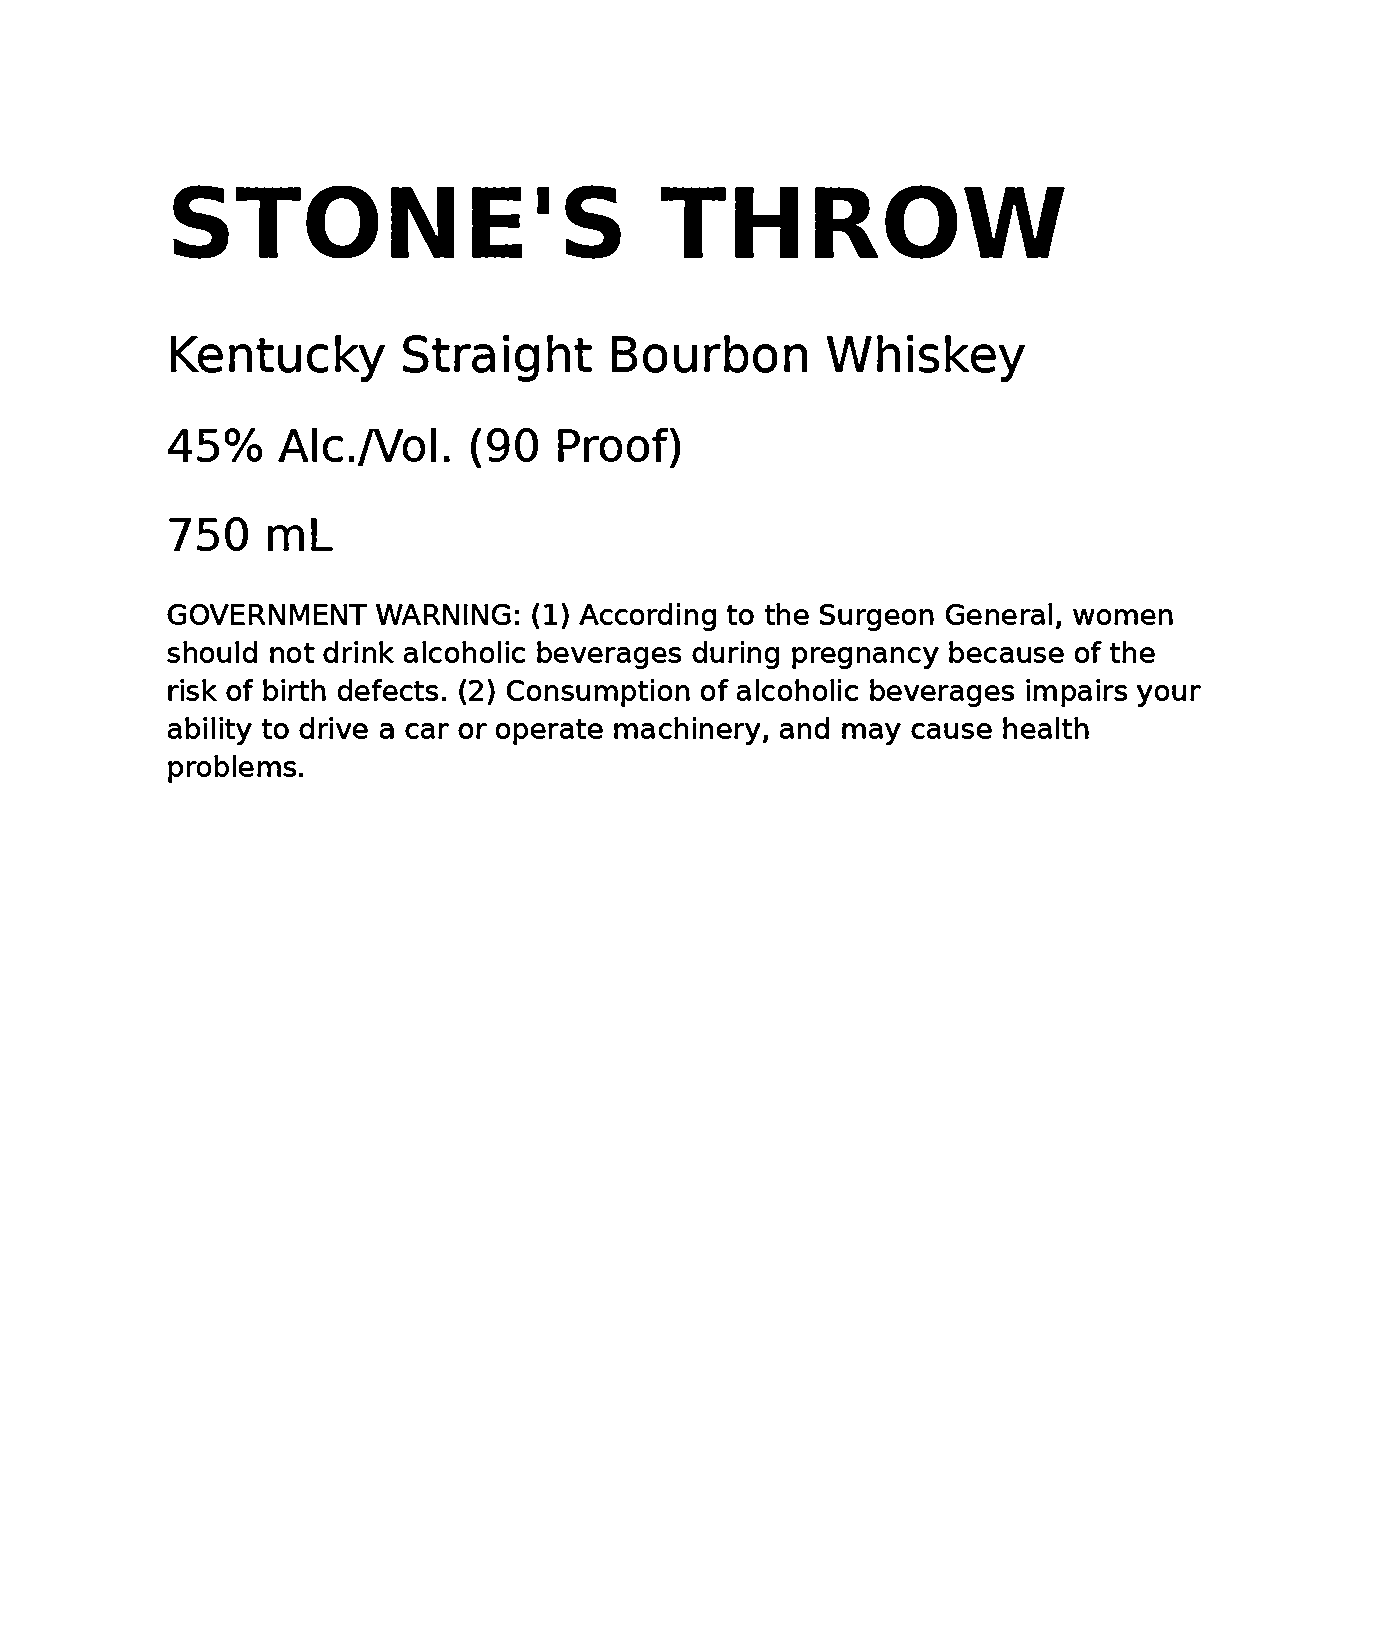
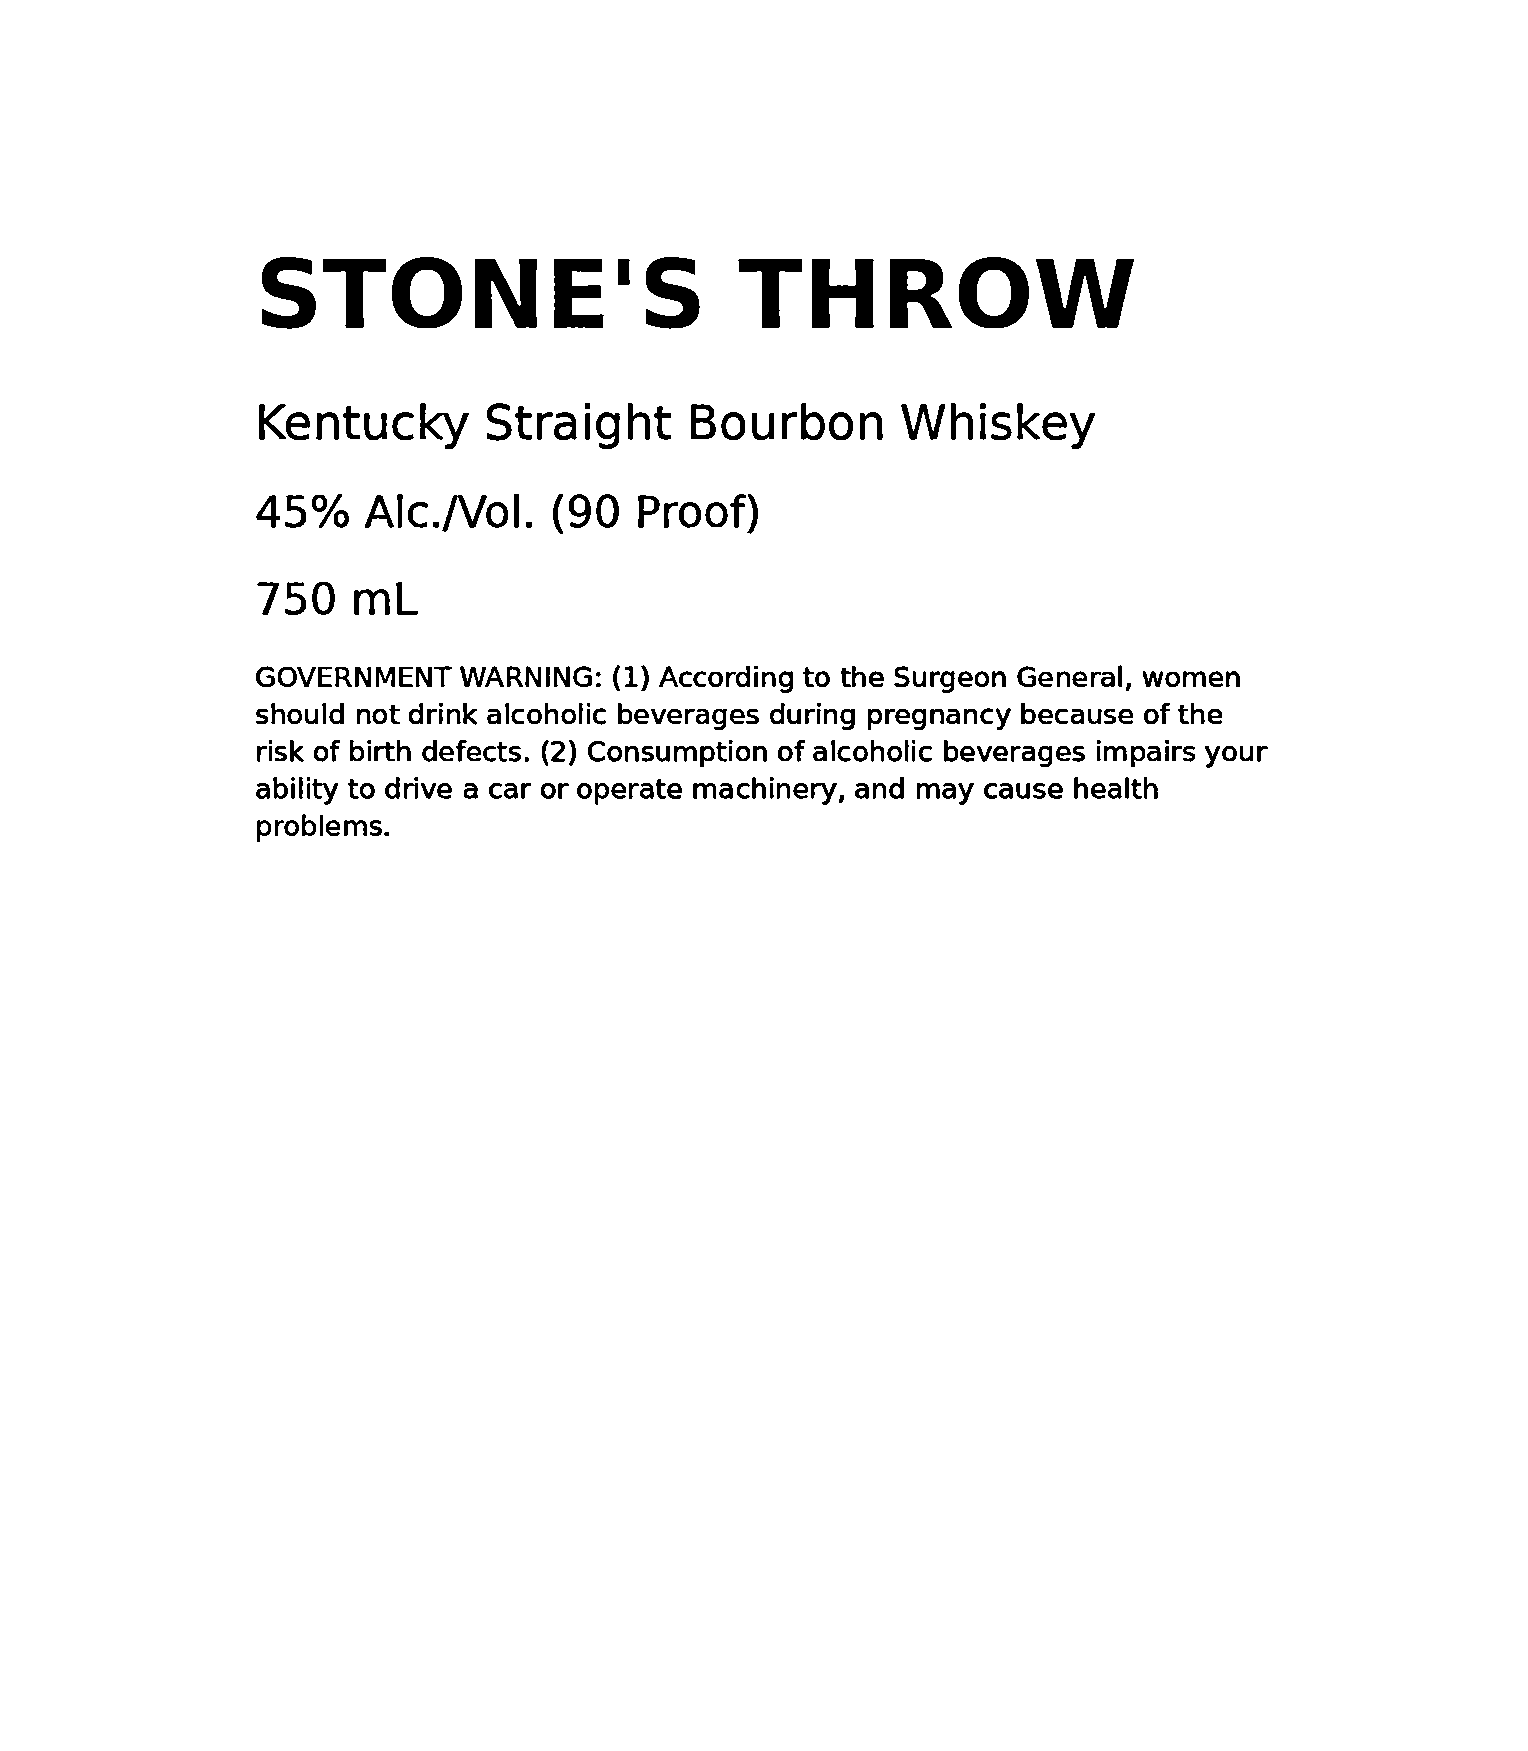
Fix glare handling: even out instead of inpainting
Inpainting blown-out pixels left a hard edge that thresholding turned
into black outlines through the text, making the heavy pass worse than
the basic one on glare. Lighting flattening alone handles the hotspot.
Also grow the canvas in the rotation test helper so no text is clipped,
add regression tests, and regenerate the preview images.

Changed region(s): [[0.1224, 0.0936, 0.8565, 0.4991]]

diff --git a/backend/tests/test_preprocess.py b/backend/tests/test_preprocess.py
@@ -67,6 +67,12 @@ def test_estimate_skew_on_blank_image_is_zero() -> None:
     assert preprocess.estimate_skew(np.full((500, 500), 255, np.uint8)) == 0.0
 
 
+def test_test_helper_rotation_keeps_all_text_on_canvas() -> None:
+    tilted = preprocess.to_grayscale(rotated(CLEAN, 10))
+    border = np.concatenate([tilted[0], tilted[-1], tilted[:, 0], tilted[:, -1]])
+    assert border.min() == 255
+
+
 def test_rotate_grows_canvas_to_keep_corners() -> None:
     out = preprocess.rotate(CLEAN_GRAY, 10)
     assert out.shape[0] > CLEAN_GRAY.shape[0] and out.shape[1] > CLEAN_GRAY.shape[1]
@@ -75,14 +81,12 @@ def test_rotate_grows_canvas_to_keep_corners() -> None:
 # glare
 
 
-def test_glare_mask_ignores_a_plain_white_label() -> None:
-    assert preprocess.glare_mask(CLEAN_GRAY) is None
+def test_has_glare_ignores_a_plain_white_label() -> None:
+    assert not preprocess.has_glare(CLEAN_GRAY)
 
 
-def test_glare_mask_finds_a_hotspot() -> None:
-    mask = preprocess.glare_mask(preprocess.to_grayscale(with_glare(CLEAN)))
-    assert mask is not None
-    assert 0 < mask.mean() < 0.25
+def test_has_glare_finds_a_hotspot() -> None:
+    assert preprocess.has_glare(preprocess.to_grayscale(with_glare(CLEAN)))
 
 
 def test_flatten_illumination_evens_out_a_gradient() -> None:
@@ -116,9 +120,23 @@ def test_heavy_straightens_a_rotated_label() -> None:
 def test_heavy_leaves_a_straight_label_unrotated() -> None:
     result = preprocess.heavy(preprocess.basic(CLEAN, 1600).image)
     assert not any(step.startswith("straightened") for step in result.steps)
-    assert "glare reduced" not in result.steps
+    assert result.steps == ["lighting evened out", "converted to black and white"]
 
 
-def test_heavy_reduces_glare() -> None:
+def test_heavy_reports_glare() -> None:
     result = preprocess.heavy(preprocess.basic(with_glare(CLEAN), 1600).image)
-    assert "glare reduced" in result.steps
+    assert result.steps[0] == "glare evened out"
+
+
+def test_heavy_leaves_no_dark_outline_around_glare() -> None:
+    """Regression: inpainting the hotspot used to leave a black ring through the text.
+
+    Counts pixels that are black after processing the glare photo but white after processing
+    the clean label. The old code produced 0.61% such pixels, the current code 0.04%.
+    """
+
+    def heavy(image: np.ndarray) -> np.ndarray:
+        return preprocess.heavy(preprocess.basic(image, 1600).image).image
+
+    spurious_ink = (heavy(with_glare(CLEAN)) == 0) & (heavy(CLEAN) == 255)
+    assert spurious_ink.mean() < 0.002

diff --git a/backend/app/ocr/preprocess.py b/backend/app/ocr/preprocess.py
@@ -1,4 +1,4 @@
-"""OpenCV preprocessing pipeline (resize cap, grayscale, CLAHE, deskew, glare).
+"""OpenCV preprocessing pipeline (resize cap, grayscale, CLAHE, lighting and glare, deskew).
 
 Small functions on numpy images. `basic` is cheap and always runs; `heavy` adds the slower
 fix-ups and is only used when OCR confidence on the basic image is low (see ocr/reader.py).
@@ -104,13 +104,10 @@ def rotate(gray: np.ndarray, angle: float) -> np.ndarray:
     )
 
 
-def glare_mask(gray: np.ndarray) -> np.ndarray | None:
-    """Mask of blown-out highlight patches, or None when there is no glare worth fixing."""
-    mask = (gray >= _GLARE_LEVEL).astype(np.uint8)
-    share = float(mask.mean())
-    if not _GLARE_MIN_SHARE <= share <= _GLARE_MAX_SHARE:
-        return None
-    return cv2.dilate(mask, np.ones((5, 5), np.uint8))
+def has_glare(gray: np.ndarray) -> bool:
+    """True when blown-out highlight patches cover a share of the image typical of glare."""
+    share = float((gray >= _GLARE_LEVEL).mean())
+    return _GLARE_MIN_SHARE <= share <= _GLARE_MAX_SHARE
 
 
 def flatten_illumination(gray: np.ndarray) -> np.ndarray:
@@ -140,18 +137,17 @@ def basic(image: np.ndarray, max_edge: int) -> Preprocessed:
 
 
 def heavy(gray: np.ndarray) -> Preprocessed:
-    """Slower fix-ups for hard photos: glare repair, lighting flatten, deskew, threshold.
+    """Slower fix-ups for hard photos: lighting flatten (which also evens out glare), deskew,
+    threshold.
 
-    Takes the output of basic(). Glare is repaired before deskew so bright patches do not
-    skew the line search.
+    Takes the output of basic(). Lighting is flattened before deskew so bright patches do not
+    skew the line search. Glare is not inpainted: painting over the hotspot leaves a hard edge
+    that thresholding turns into black outlines through the text, while dividing out the
+    background handles the hotspot's smooth brightness bump on its own.
     """
     result = Preprocessed(gray)
-    image = gray
-    if (mask := glare_mask(image)) is not None:
-        image = cv2.inpaint(image, mask, 3, cv2.INPAINT_TELEA)
-        result.steps.append("glare reduced")
-    image = flatten_illumination(image)
-    result.steps.append("lighting evened out")
+    image = flatten_illumination(gray)
+    result.steps.append("glare evened out" if has_glare(gray) else "lighting evened out")
     angle = estimate_skew(image)
     if _MIN_SKEW_DEG <= abs(angle) <= _MAX_SKEW_DEG:
         image = rotate(image, angle)

diff --git a/backend/tests/label_images.py b/backend/tests/label_images.py
@@ -57,9 +57,14 @@ def render_label(
 
 
 def rotated(image: np.ndarray, degrees: float) -> np.ndarray:
+    """Rotate counter-clockwise on a canvas grown to fit, so no text is cut off."""
     height, width = image.shape[:2]
     matrix = cv2.getRotationMatrix2D((width / 2, height / 2), degrees, 1.0)
-    return cv2.warpAffine(image, matrix, (width, height), borderValue=(255, 255, 255))
+    cos, sin = abs(matrix[0, 0]), abs(matrix[0, 1])
+    new_width, new_height = int(height * sin + width * cos), int(height * cos + width * sin)
+    matrix[0, 2] += (new_width - width) / 2
+    matrix[1, 2] += (new_height - height) / 2
+    return cv2.warpAffine(image, matrix, (new_width, new_height), borderValue=(255, 255, 255))
 
 
 def blurred(image: np.ndarray, sigma: float = 2.0) -> np.ndarray:

diff --git a/backend/tests/test_ocr.py b/backend/tests/test_ocr.py
@@ -141,6 +141,17 @@ def test_pipeline_improves_or_preserves_the_basic_reading(
     assert pipeline.ocr.score >= basic_only.score
 
 
+@pytest.mark.parametrize("damage", [with_glare, lambda i: with_glare(rotated(i, 10))])
+@needs_tesseract
+def test_heavy_pass_reads_glare_labels_better_than_basic(
+    damage: Callable[[np.ndarray], np.ndarray],
+) -> None:
+    """Regression: the heavy pass used to make glare worse (inpainting left outlines)."""
+    engine = TesseractEngine()
+    base = preprocess.basic(damage(CLEAN), 1600).image
+    assert engine.run(preprocess.heavy(base).image).score >= engine.run(base).score
+
+
 @needs_tesseract
 def test_engine_reads_nothing_from_a_blank_image() -> None:
     result = TesseractEngine().run(np.full((300, 300), 255, np.uint8))

diff --git a/docs/DECISIONS.md b/docs/DECISIONS.md
@@ -139,8 +139,8 @@ Each entry: what we chose, why, and what it costs.
 ## OCR and preprocessing
 
 - **Two passes, the second only when needed.** `basic` (downscale to 1600px, grayscale,
-  CLAHE) always runs, followed by one OCR call. `heavy` (glare inpaint, lighting flatten,
-  deskew, adaptive threshold) runs only if the first reading is rejected; then the
+  CLAHE) always runs, followed by one OCR call. `heavy` (lighting and glare flatten, deskew,
+  adaptive threshold) runs only if the first reading is rejected; then the
   better-scoring reading wins. Measured locally on a synthetic label: clean 0.4 s,
   10-degree rotation about 1.0 s.
 - **Mean confidence alone is a weak retry trigger.** Measured: a label rotated -7 degrees read
@@ -160,10 +160,14 @@ Each entry: what we chose, why, and what it costs.
   borders and artwork throw off. Skew under 0.5 degrees is left alone. Larger rotations
   (sideways or upside-down photos) are not handled; phone EXIF orientation is applied on
   decode.
-- **Glare:** pixels >= 250 covering 0.05%-25% of the image are inpainted, then the background
-  is divided out. More than 25% is assumed to be a white label, not glare. Text fully washed out
-  by glare cannot be recovered. On the synthetic glare sample the heavy pass reads worse than
-  the basic one and the score correctly keeps the basic reading.
+- **Glare is evened out, not inpainted.** The first version inpainted blown-out pixels
+  (>= 250) before flattening. The rendered previews showed that the inpainted patch left a
+  hard edge, which thresholding turned into black outlines through the text, so the heavy pass
+  read glare labels worse than the basic one (score 180 vs 283). Dividing out the background
+  already handles a hotspot's smooth brightness bump: without inpainting, the synthetic glare
+  label scores 295 (the same as a clean label) and the warning is read in full. Glare is still
+  detected (0.05%-25% of pixels >= 250) so the steps list says "glare evened out". Text that
+  glare has fully washed out cannot be recovered by any preprocessing.
 - **`ocr/reader.py` is an addition to the planned layout.** The retry loop needs both
   preprocessing and the engine, so it lives in neither; `preprocess.py` stays pure image
   functions and `engine.py` stays the swappable interface.

diff --git a/samples/README.md b/samples/README.md
@@ -16,8 +16,8 @@ Regenerate with `backend/.venv/bin/python scripts/make_ocr_previews.py`.
 | Case | Damage |
 |---|---|
 | 1_clean | none |
-| 2_rotated_10, 3_rotated_-7 | rotated 10 and -7 degrees (test helper clips the corners slightly) |
+| 2_rotated_10, 3_rotated_-7 | rotated 10 and -7 degrees on a canvas grown to fit |
 | 4_blurred | Gaussian blur, sigma 2 |
-| 5_glare | grey paper with a bright hotspot; the heavy pass currently leaves outline artifacts here |
+| 5_glare | grey paper with a bright hotspot |
 | 6_dim_uneven | shadow darkening toward the right edge |
-| 7_rotated_glare | rotation and glare together |
+| 7_rotated_glare | rotation and glare together; a few words at the hotspot centre stay faint because they are fully washed out |
